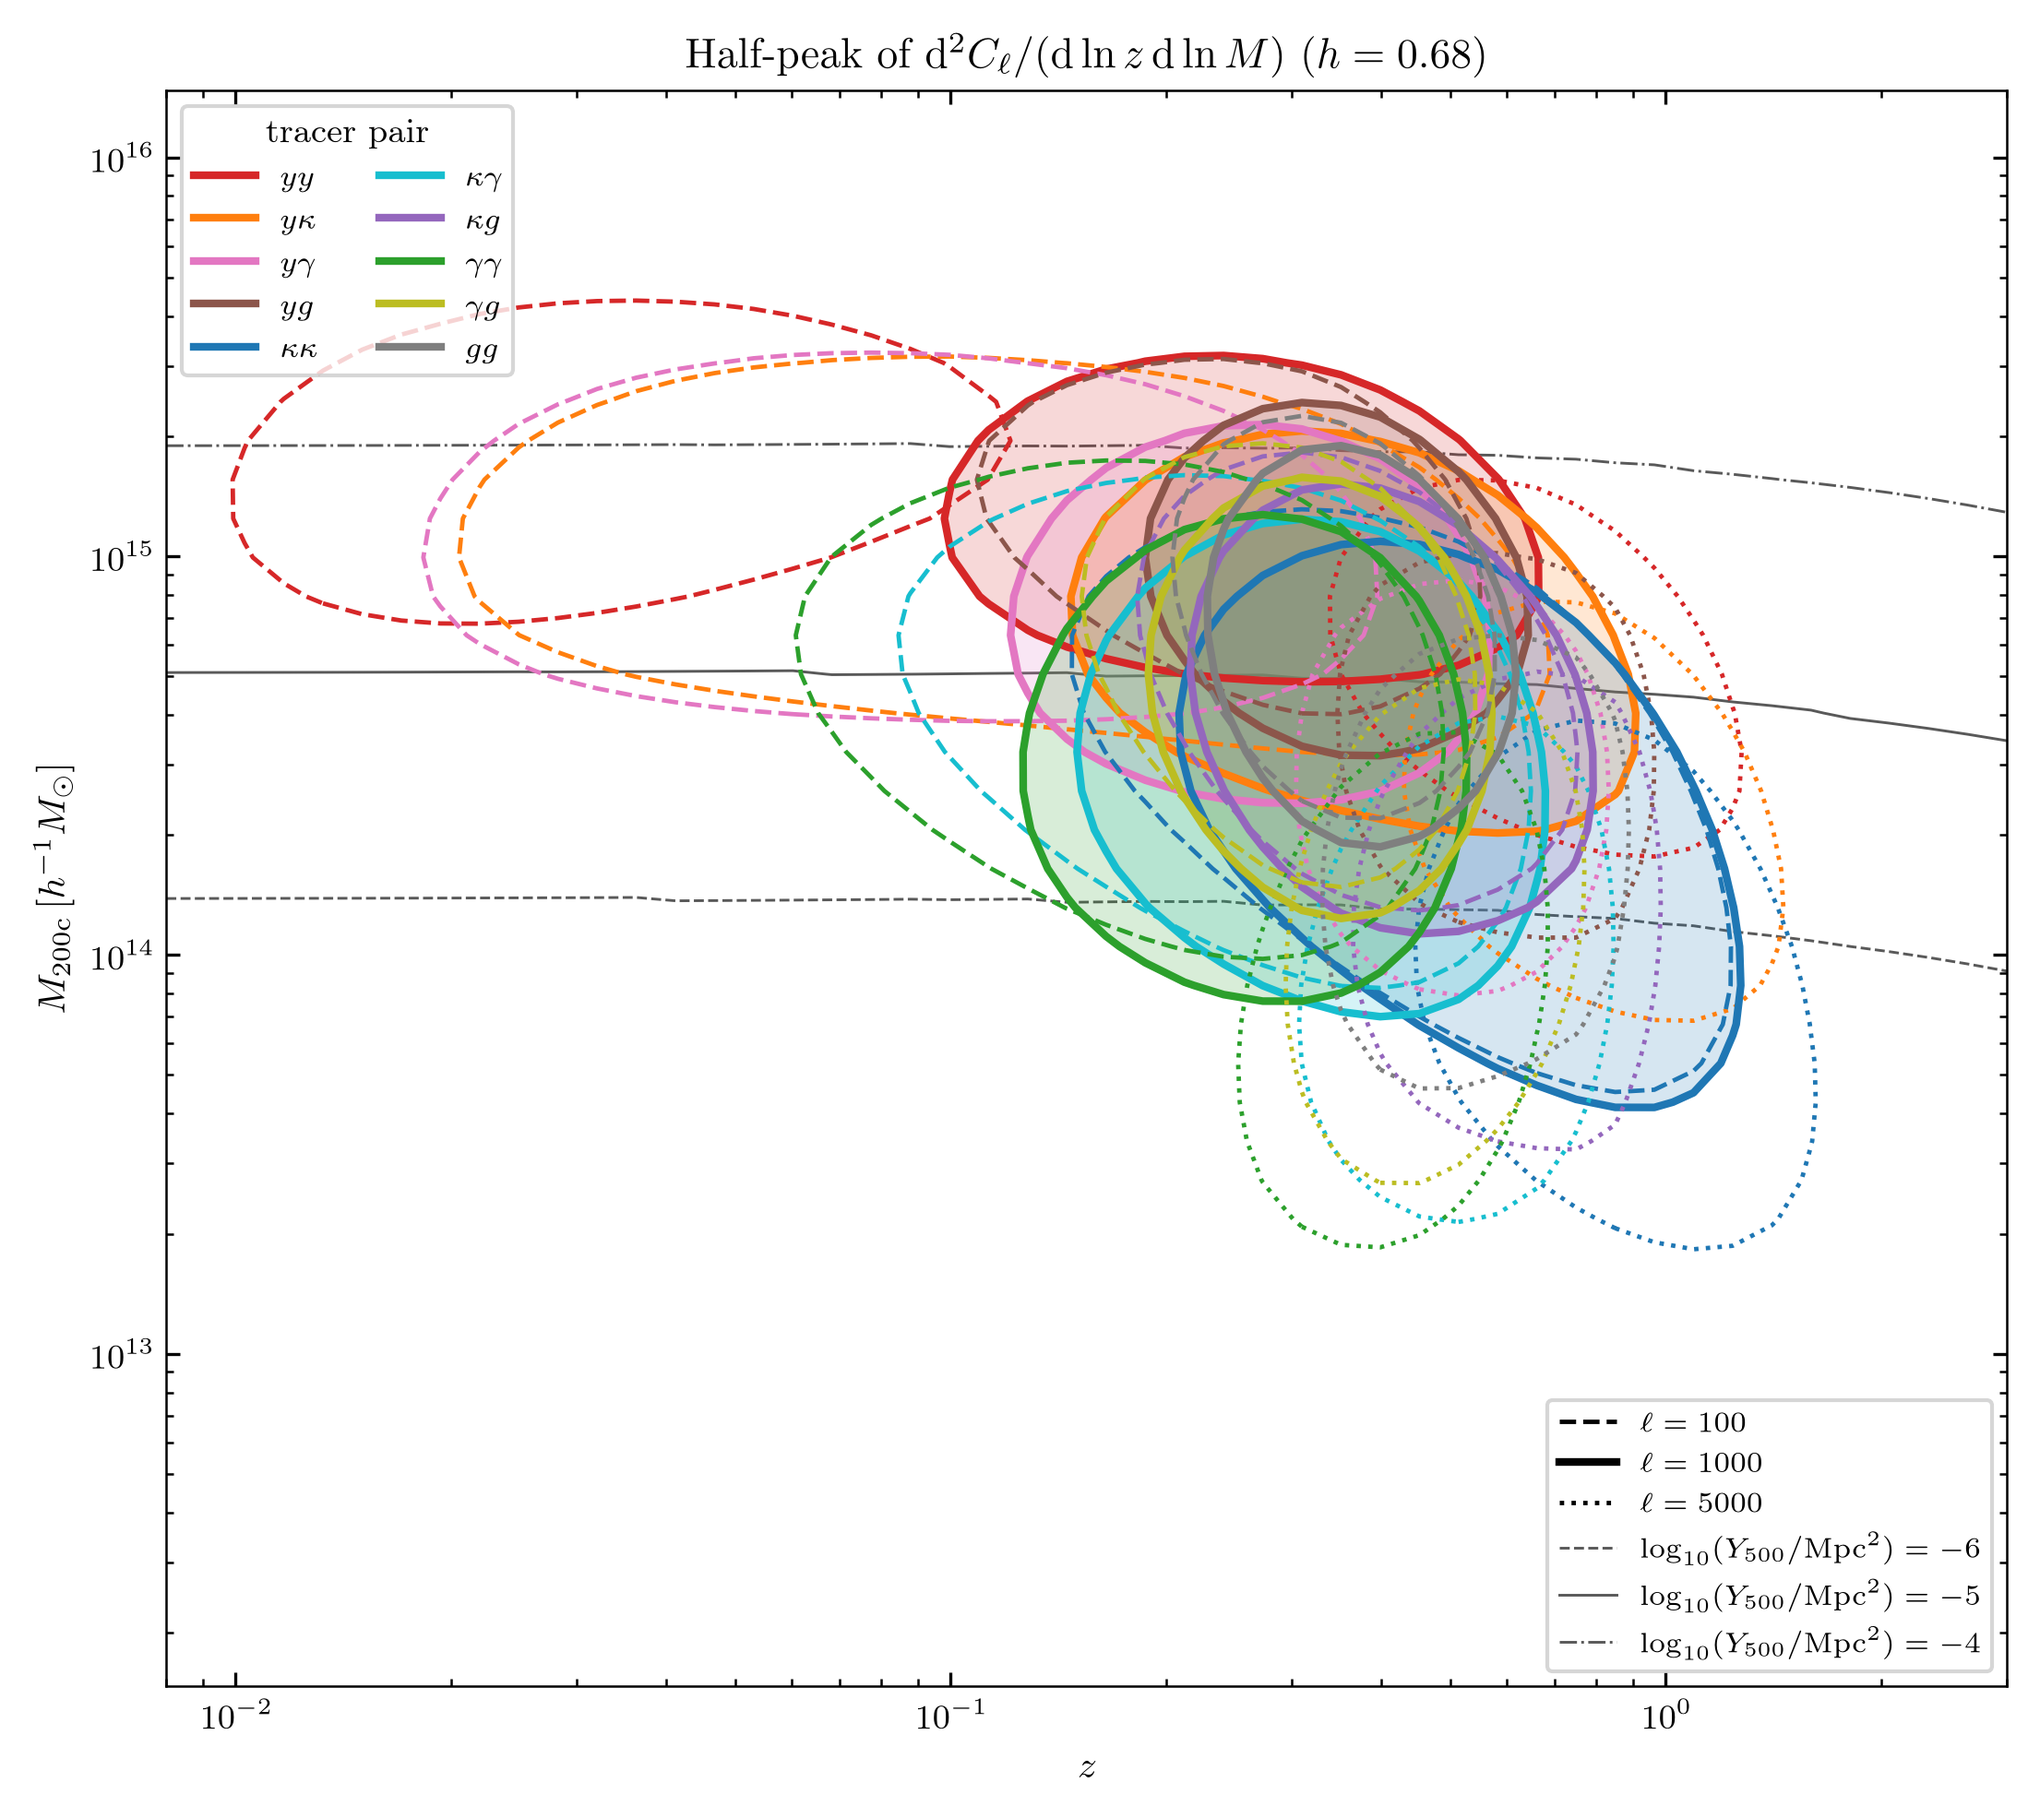
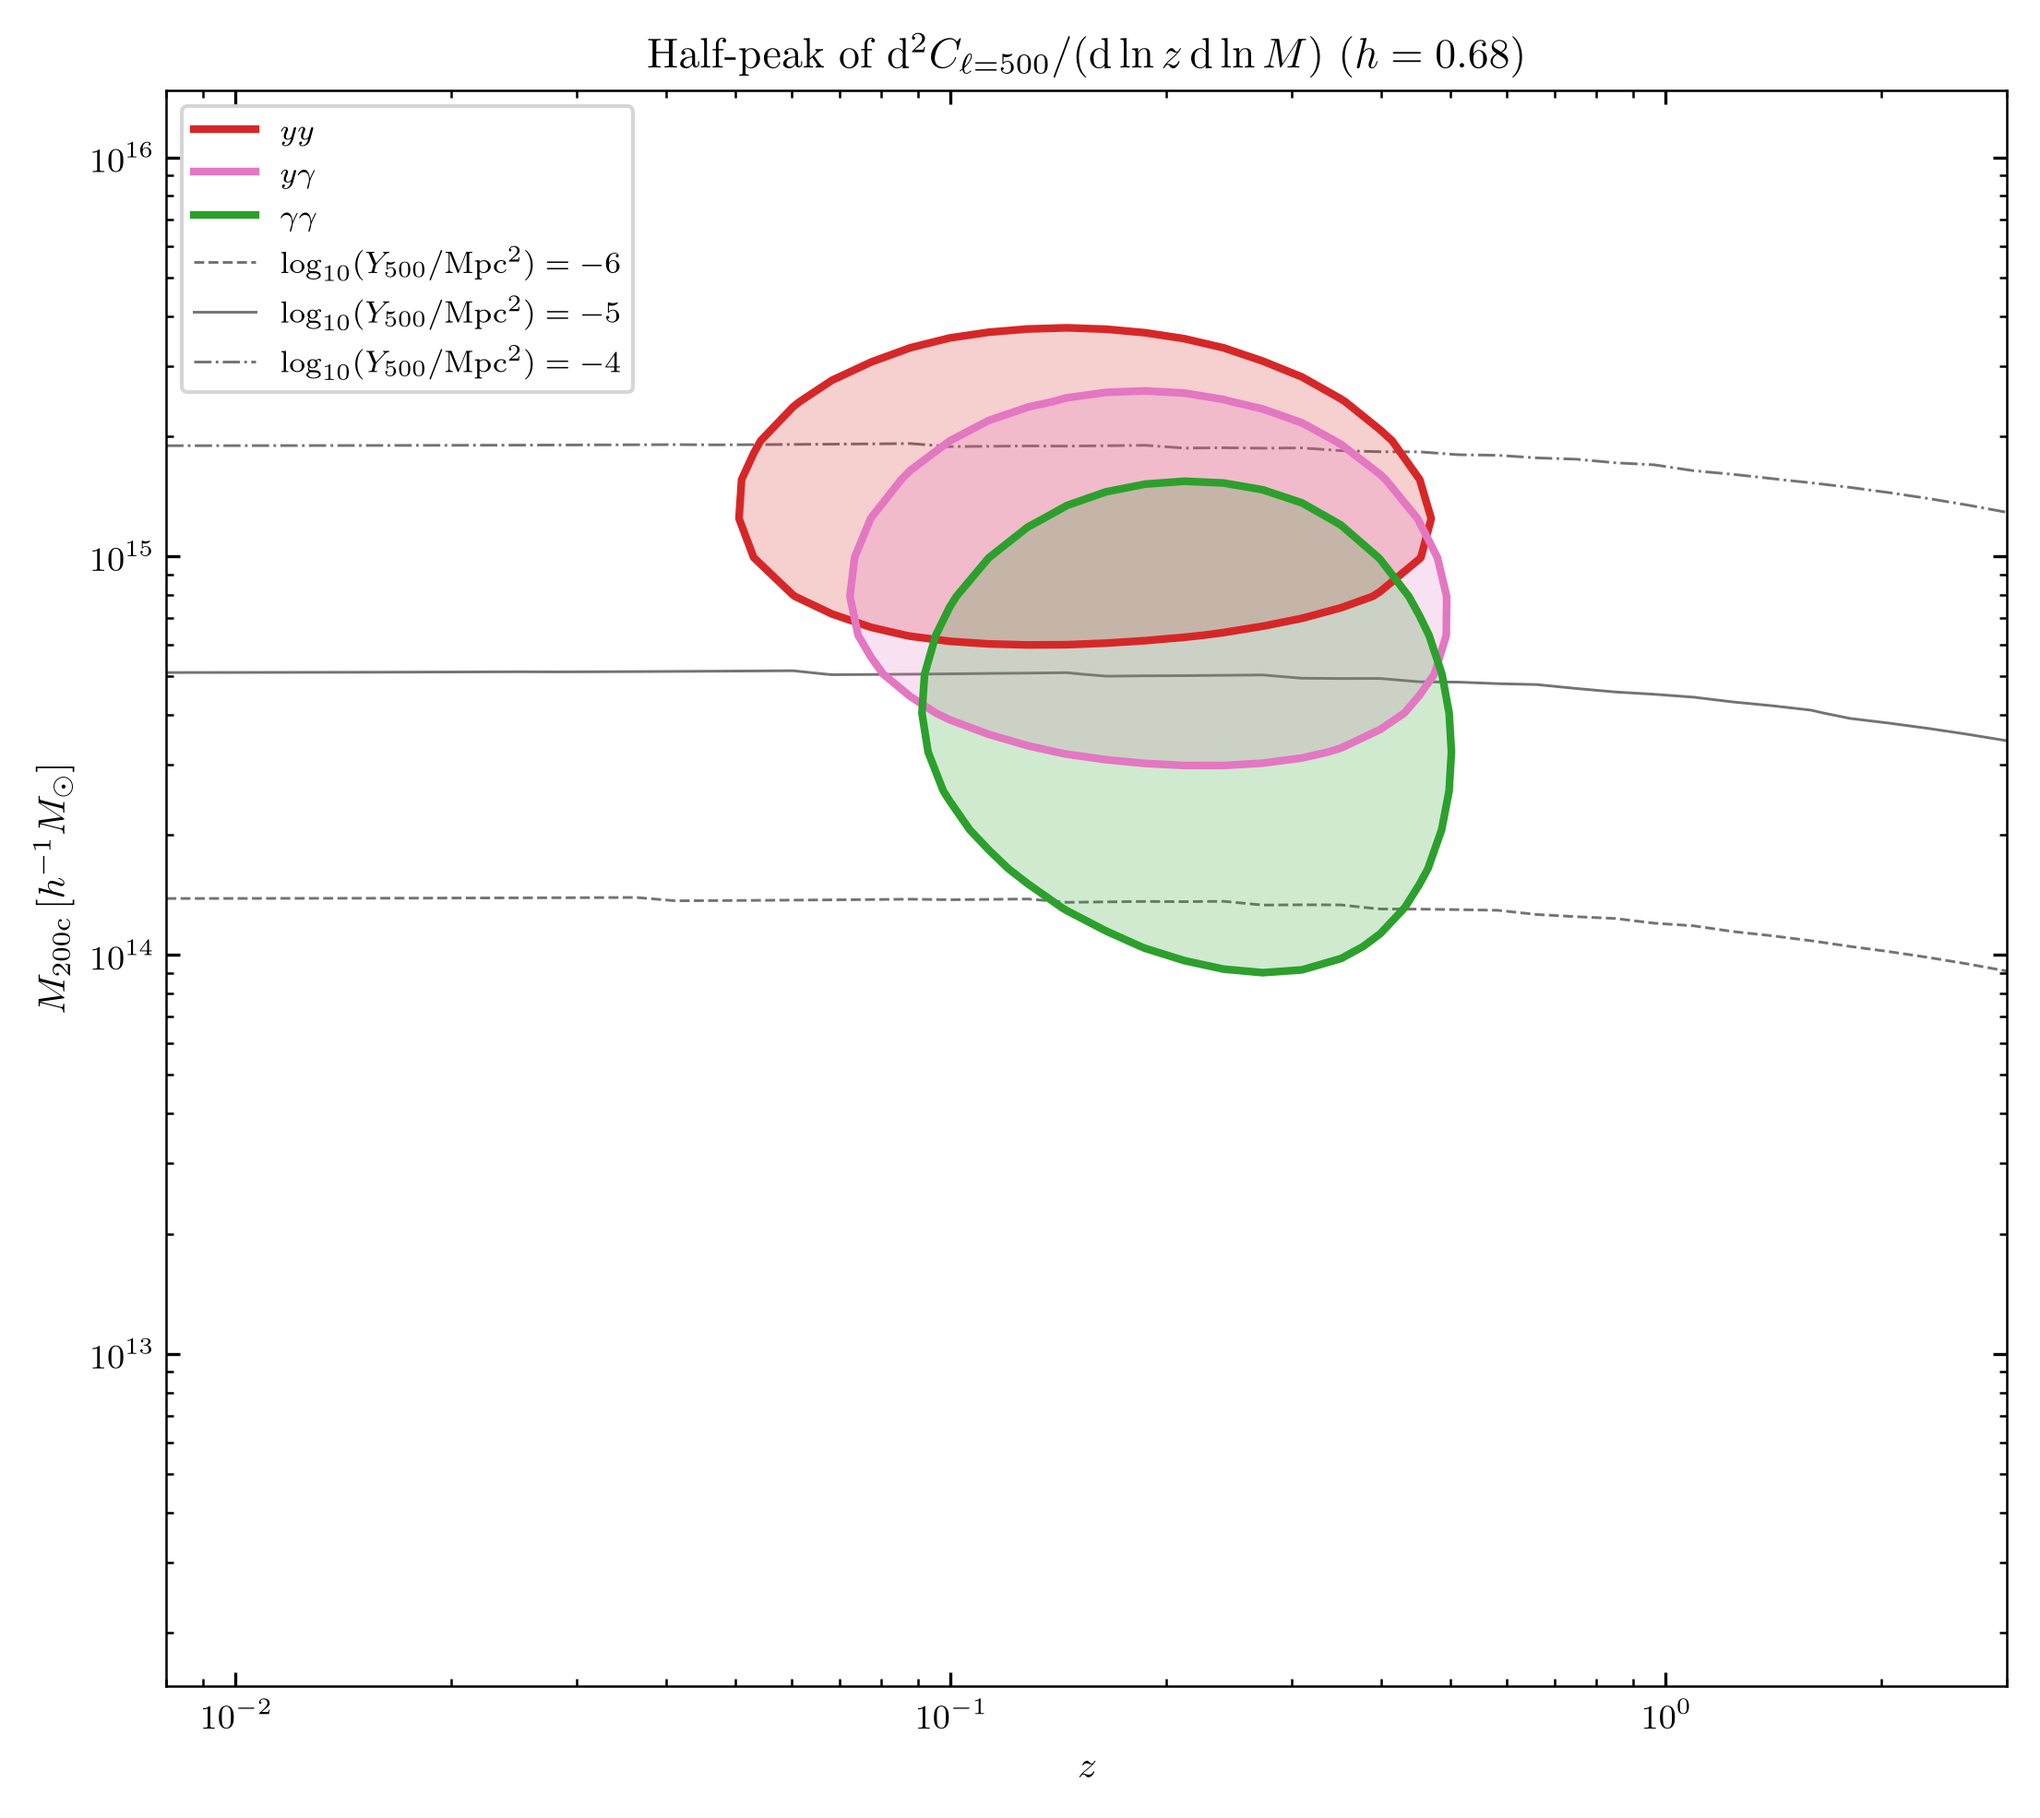
Show only yy, y-gamma, and gamma-gamma at ell=500.
The overlay keeps those three half-peak contours so the mass and
redshift shift from tSZ to galaxy lensing is readable.

diff --git a/tutorial/plot_mz_contributions.py b/tutorial/plot_mz_contributions.py
@@ -44,27 +44,18 @@ from hmfast.tracers import CMBLensingTracer, GalaxyHODTracer, GalaxyLensingTrace
 from hmfast.utils import Const
 
 
-ELL = np.array([100.0, 1000.0, 5000.0])
+ELL = np.array([500.0])
 # Cluster and group scales. Low-z floor avoids the chi->0 Limber pole.
 # Low-z floor has to sit below the ell=100 yy peak; 0.03 clips that blob.
 Z = np.geomspace(0.008, 3.0, 48)
 M = np.geomspace(1.0e12, 1.0e16, 42)
 
-# Figure groups. Keys are stable ids; labels are the LaTeX row tags.
-# One color per tracer pair. Linestyle encodes the multipole on the same axes.
+# One color per tracer pair drawn on the single overlay.
 TRACER_COLORS = [
     ("yy", r"$yy$", "#d62728"),
-    ("yk", r"$y\kappa$", "#ff7f0e"),
     ("ygam", r"$y\gamma$", "#e377c2"),
-    ("yg", r"$yg$", "#8c564b"),
-    ("kk", r"$\kappa\kappa$", "#1f77b4"),
-    ("kgam", r"$\kappa\gamma$", "#17becf"),
-    ("kg", r"$\kappa g$", "#9467bd"),
     ("gamgam", r"$\gamma\gamma$", "#2ca02c"),
-    ("gamg", r"$\gamma g$", "#bcbd22"),
-    ("gg", r"$gg$", "#7f7f7f"),
 ]
-ELL_LINESTYLE = {100.0: "--", 1000.0: "-", 5000.0: ":"}
 
 
 LENSING_ROWS = [
@@ -162,7 +153,7 @@ def d2_dlnz_dlnm(integrand_dz, z):
     return np.asarray(integrand_dz) * np.asarray(z)[:, None, None]
 
 
-def compute_kernels(hm, tracers, z, m, ell):
+def compute_kernels(hm, tracers, z, m, ell, keys=None):
     pairs = {
         "yy": ("y", "y"),
         "yk": ("y", "k"),
@@ -175,6 +166,8 @@ def compute_kernels(hm, tracers, z, m, ell):
         "gamg": ("gam", "g"),
         "gg": ("g", "g"),
     }
+    if keys is not None:
+        pairs = {key: pairs[key] for key in keys}
     z_j = jnp.asarray(z)
     m_j = jnp.asarray(m)
     ell_j = jnp.asarray(ell)
@@ -374,7 +367,7 @@ def plot_masked(path, kernels_full, kernels_masked, z, m_plot, ell, y500):
 
 
 def plot_overlay(path, kernels, z, m_plot, ell, y500, h):
-    """Every tracer pair on one axes. Color is the pair; linestyle is ell."""
+    """yy, y-gamma, and gamma-gamma half-peaks on one axes at a single ell."""
     _setup_style()
     fig, ax = plt.subplots(figsize=(7.4, 6.6))
 
@@ -384,7 +377,7 @@ def plot_overlay(path, kernels, z, m_plot, ell, y500, h):
         m_plot,
         logy,
         levels=[-6.0, -5.0, -4.0],
-        colors="0.35",
+        colors="0.45",
         linewidths=0.7,
         linestyles=["--", "-", "-."],
         zorder=1,
@@ -392,35 +385,30 @@ def plot_overlay(path, kernels, z, m_plot, ell, y500, h):
 
     for key, _label, color in TRACER_COLORS:
         field = kernels[key]
-        for j, ell_j in enumerate(ell):
-            data = np.array(field[:, j, :], dtype=np.float64)
-            data = np.where(np.isfinite(data) & (data > 0), data, 0.0)
-            peak = float(np.max(data))
-            if peak <= 0:
-                continue
-            level = data / peak
-            ls = ELL_LINESTYLE[float(ell_j)]
-            lw = 2.0 if float(ell_j) == 1000.0 else 1.15
-            if float(ell_j) == 1000.0:
-                ax.contourf(
-                    z,
-                    m_plot,
-                    level.T,
-                    levels=[0.5, 1.01],
-                    colors=[color],
-                    alpha=0.18,
-                    zorder=2,
-                )
-            ax.contour(
-                z,
-                m_plot,
-                level.T,
-                levels=[0.5],
-                colors=[color],
-                linestyles=[ls],
-                linewidths=[lw],
-                zorder=3,
-            )
+        data = np.array(field[:, 0, :], dtype=np.float64)
+        data = np.where(np.isfinite(data) & (data > 0), data, 0.0)
+        peak = float(np.max(data))
+        if peak <= 0:
+            continue
+        level = data / peak
+        ax.contourf(
+            z,
+            m_plot,
+            level.T,
+            levels=[0.5, 1.01],
+            colors=[color],
+            alpha=0.22,
+            zorder=2,
+        )
+        ax.contour(
+            z,
+            m_plot,
+            level.T,
+            levels=[0.5],
+            colors=[color],
+            linewidths=[2.0],
+            zorder=3,
+        )
 
     ax.set_xscale("log")
     ax.set_yscale("log")
@@ -429,37 +417,21 @@ def plot_overlay(path, kernels, z, m_plot, ell, y500, h):
     ax.set_xlabel(r"$z$")
     ax.set_ylabel(r"$M_{200\mathrm{c}}\,[h^{-1}M_\odot]$")
     ax.set_title(
-        r"Half-peak of $\mathrm{d}^{2}C_\ell/(\mathrm{d}\ln z\,\mathrm{d}\ln M)$"
+        rf"Half-peak of $\mathrm{{d}}^{{2}}C_{{\ell={int(ell[0])}}}"
+        r"/(\mathrm{d}\ln z\,\mathrm{d}\ln M)$"
         + rf" ($h={h:.2f}$)"
     )
 
-    tracer_handles = [
+    handles = [
         Line2D([0], [0], color=color, lw=2.0, label=label)
         for _key, label, color in TRACER_COLORS
     ]
-    style_handles = [
-        Line2D([0], [0], color="k", lw=1.15, ls="--", label=r"$\ell=100$"),
-        Line2D([0], [0], color="k", lw=2.0, ls="-", label=r"$\ell=1000$"),
-        Line2D([0], [0], color="k", lw=1.15, ls=":", label=r"$\ell=5000$"),
-        Line2D([0], [0], color="0.35", lw=0.7, ls="--", label=r"$\log_{10}(Y_{500}/\mathrm{Mpc}^{2})=-6$"),
-        Line2D([0], [0], color="0.35", lw=0.7, ls="-", label=r"$\log_{10}(Y_{500}/\mathrm{Mpc}^{2})=-5$"),
-        Line2D([0], [0], color="0.35", lw=0.7, ls="-.", label=r"$\log_{10}(Y_{500}/\mathrm{Mpc}^{2})=-4$"),
+    handles += [
+        Line2D([0], [0], color="0.45", lw=0.7, ls="--", label=r"$\log_{10}(Y_{500}/\mathrm{Mpc}^{2})=-6$"),
+        Line2D([0], [0], color="0.45", lw=0.7, ls="-", label=r"$\log_{10}(Y_{500}/\mathrm{Mpc}^{2})=-5$"),
+        Line2D([0], [0], color="0.45", lw=0.7, ls="-.", label=r"$\log_{10}(Y_{500}/\mathrm{Mpc}^{2})=-4$"),
     ]
-    leg1 = ax.legend(
-        handles=tracer_handles,
-        loc="upper left",
-        frameon=True,
-        fontsize=8,
-        ncol=2,
-        title=r"tracer pair",
-    )
-    ax.add_artist(leg1)
-    ax.legend(
-        handles=style_handles,
-        loc="lower right",
-        frameon=True,
-        fontsize=7.5,
-    )
+    ax.legend(handles=handles, loc="upper left", frameon=True, fontsize=8)
     fig.tight_layout()
     fig.savefig(path, dpi=300, bbox_inches="tight", pad_inches=0.12)
     plt.close(fig)
@@ -498,8 +470,8 @@ def main():
         flush=True,
     )
 
-    kernels = compute_kernels(hm, tracers, Z, M, ELL)
-    kernels["yy_masked"], _mask = compute_masked_yy(hm, tracers, Z, M, ELL, y500)
+    keys = [key for key, _label, _color in TRACER_COLORS]
+    kernels = compute_kernels(hm, tracers, Z, M, ELL, keys=keys)
 
     np.savez(
         os.path.join(out_dir, "mz_kernels.npz"),
